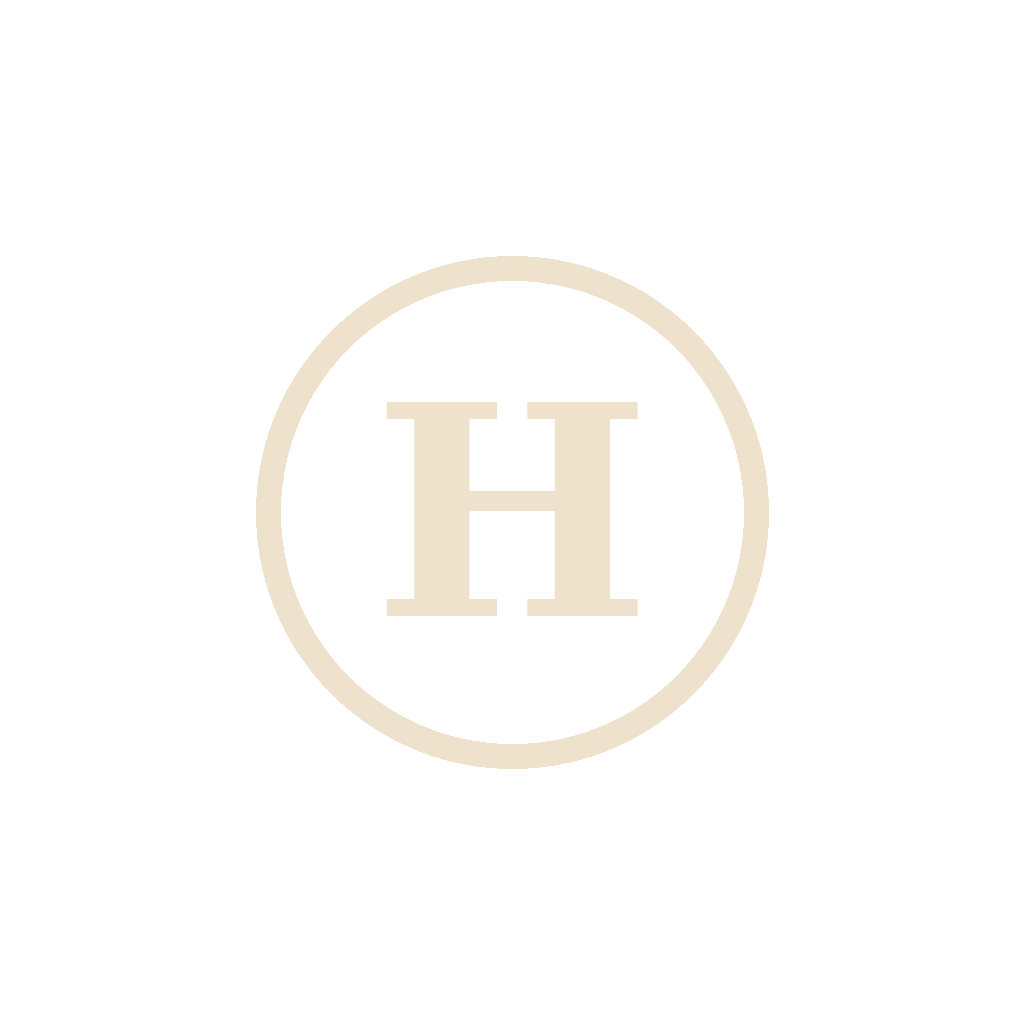
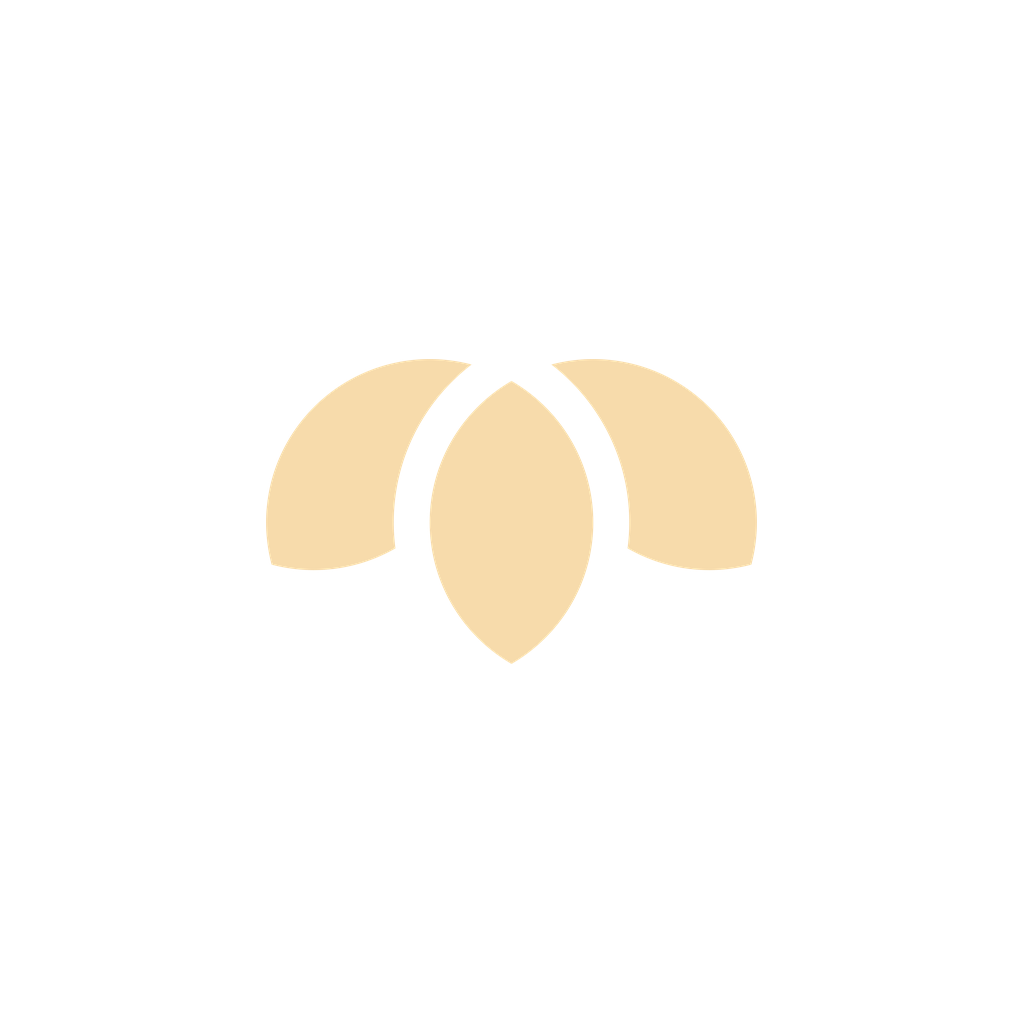
Hamour kurumsal renkleri ve logosu
- Renkler hamour_pantoneler.pdf'ten: %60 krem #F6DCAF zemin, %30 kiremit #B45A3C
  (kartlar, düğmeler), %10 koyu kahve #3D1D0E (yazı). Uygulama ve panel.
- Logo ve üç yaprak simgesi Hamour_Logo.ai'den vektör olarak; ana sayfa, giriş,
  "Hamour'u tanıyın" ve panel üst çubuğunda.
- Doku: kiremit kartlarda silik simge filigranı.
- Başlıklarda Playfair Display.
- Uygulama simgesi, Android simgeleri, açılış ekranı ve favicon yeni logodan.

Claude-Session: https://claude.ai/code/session_01F9uvWqfTVvxXdeyaDPkVFK

Changed region(s): [[0.25, 0.25, 0.75, 0.75]]

diff --git a/app/src/bilesenler/Logo.tsx b/app/src/bilesenler/Logo.tsx
@@ -1,12 +1,37 @@
-import Svg, { Circle, Text as SvgText } from 'react-native-svg';
+import Svg, { Path } from 'react-native-svg';
 import { renk } from '../tema';
 
-// Geçici "H" monogramı. Hamour'un logosu (vektör) gelince buraya konacak.
-export function Logo({ boy = 40, renkKodu = renk.ana }: { boy?: number; renkKodu?: string }) {
+// Hamour logosu: Hamour_Logo.ai'den vektör olarak alındı (Kasım 2026). Yolları elle değiştirmeyin.
+const YAZI = [
+  'M 264.95 610.79 L 264.95 468.89 C 264.95 463.89 268.13 460.71 273.12 460.71 L 274.26 460.71 L 274.26 458.44 L 232.25 458.44 L 232.25 460.71 L 233.39 460.71 C 238.38 460.71 241.56 463.89 241.56 468.89 L 241.56 502.57 L 191.33 502.57 L 191.33 468.89 C 191.33 463.89 194.73 460.71 199.50 460.71 L 200.64 460.71 L 200.64 458.44 L 158.86 458.44 L 158.86 460.71 L 160 460.71 C 164.99 460.71 168.17 463.89 168.17 468.89 L 168.17 610.79 C 168.17 615.56 164.99 618.96 160 618.96 L 158.86 618.96 L 158.86 621.23 L 200.64 621.23 L 200.64 618.96 L 199.50 618.96 C 194.73 618.96 191.33 615.56 191.33 610.79 L 191.33 507.23 L 241.56 507.23 L 241.56 610.79 C 241.56 615.56 238.38 618.96 233.39 618.96 L 232.25 618.96 L 232.25 621.23 L 277.43 621.23 L 277.43 618.96 L 273.12 618.96 C 268.13 618.96 264.95 615.56 264.95 610.79',
+  'M 553.11 608.83 L 553.11 542.76 C 553.11 515.52 543.35 500.53 523.37 500.53 C 505.43 500.53 490.90 512.79 484.32 532.77 C 482.05 511.89 472.28 500.53 455.03 500.53 C 437.55 500.53 423.24 512.34 416.20 531.41 L 416.20 503.03 L 383.74 503.03 L 383.74 505.30 L 384.87 505.30 C 389.87 505.30 393.05 508.48 393.05 513.48 L 393.05 608.83 C 393.05 613.60 389.87 617.01 384.87 617.01 L 383.74 617.01 L 383.74 619.28 L 425.51 619.28 L 425.51 617.01 L 424.38 617.01 C 419.61 617.01 416.20 613.60 416.20 608.83 L 416.20 560.25 C 416.20 531.41 427.55 512.11 442.76 512.11 C 455.25 512.11 461.39 524.37 461.39 545.03 L 461.39 608.83 C 461.39 613.60 458.21 617.01 453.21 617.01 L 452.08 617.01 L 452.08 619.28 L 494.08 619.28 L 494.08 617.01 L 492.94 617.01 C 487.95 617.01 484.77 613.60 484.77 608.83 L 484.77 560.25 C 484.77 531.41 495.89 512.11 511.33 512.11 C 523.59 512.11 529.95 524.37 529.95 545.03 L 529.95 608.83 C 529.95 613.60 526.55 617.01 521.78 617.01 L 520.64 617.01 L 520.64 619.28 L 570.48 619.28 L 570.48 617.01 L 561.28 617.01 C 556.29 617.01 553.11 613.60 553.11 608.83',
+  'M 616.67 616.05 C 593.50 616.05 577.90 594.41 577.90 561.44 C 577.90 528.81 593.50 506.83 616.67 506.83 C 640 506.83 655.44 528.81 655.44 561.44 C 655.44 594.41 640 616.05 616.67 616.05 M 616.54 503.04 C 580.44 503.04 556.14 526.38 556.14 561.28 C 556.14 596.17 580.44 619.30 616.54 619.30 C 652.87 619.30 677.16 596.17 677.16 561.28 C 677.16 526.38 652.87 503.04 616.54 503.04',
+  'M 351.07 582.22 C 350.63 601.85 339.70 614.79 325.19 614.79 C 310.47 614.79 298.42 600.96 298.42 582.89 C 298.42 564.82 310.47 553 325.87 553 C 340.14 553 350.63 563.03 351.07 578.65 Z M 374.05 608.99 L 374.05 552.55 C 374.05 515.07 350.18 502.57 328.54 502.57 C 318.05 502.57 309.13 505.69 304.22 507.70 C 293.07 512.39 293.07 507.92 293.07 505.69 L 293.07 505.03 L 290.83 505.03 L 290.83 541.62 L 293.07 541.62 C 300.21 515.07 309.13 507.26 323.41 507.26 C 343.04 507.26 351.07 522.21 351.07 548.31 L 351.07 562.36 C 345.27 552.77 333.67 546.08 318.73 546.08 C 294.85 546.08 275.67 562.81 275.67 584.90 C 275.67 606.76 293.96 621.49 316.27 621.49 C 332.56 621.49 344.83 613.90 351.07 601.85 L 351.07 609.89 C 351.07 615.69 354.87 619.26 360.44 619.26 L 383.20 619.26 L 383.20 617.03 L 381.86 617.03 C 377.18 617.03 374.05 613.68 374.05 608.99',
+  'M 880.28 504.92 C 878.19 506.14 876.28 507.61 874.60 509.31 C 869.71 514.21 866.68 520.98 866.66 528.44 L 866.66 528.51 C 866.66 538.60 872.14 547.40 880.28 552.11 C 888.42 547.40 893.90 538.60 893.90 528.51 C 893.90 518.44 888.42 509.64 880.28 504.92',
+  'M 846.33 502.28 C 833.84 506.07 824.50 516.04 819.41 530.28 L 819.41 503.03 L 786.94 503.03 L 786.94 505.30 L 788.08 505.30 C 792.59 505.30 796.25 508.96 796.25 513.48 L 796.25 608.83 C 796.25 613.60 793.07 617.01 788.08 617.01 L 787 617.01 C 782.17 617.00 778.26 613.09 778.26 608.26 L 778.26 503.60 C 778.26 503.28 778.00 503.03 777.69 503.03 L 746.36 503.03 C 746.05 503.03 745.79 503.28 745.79 503.60 L 745.79 505.30 L 746.92 505.30 C 751.69 505.30 755.10 508.48 755.10 513.48 L 755.10 562.06 C 755.10 590.44 738.53 610.19 723.32 610.19 C 713.55 610.19 705.15 601.80 705.15 581.82 L 705.15 503.60 C 705.15 503.28 704.90 503.03 704.58 503.03 L 673.58 503.03 L 673.58 505.32 C 678.25 505.49 681.99 509.32 681.99 514.04 L 681.99 581.82 C 681.99 609.51 693.57 621.55 710.60 621.55 C 727.58 621.55 745.20 609.64 754.02 589.83 C 754.27 589.28 755.10 589.46 755.10 590.07 L 755.10 618.71 C 755.10 619.02 755.35 619.28 755.67 619.28 L 828.71 619.28 L 828.71 617.01 L 827.58 617.01 C 823.07 617.01 819.41 613.35 819.41 608.83 L 819.41 560.25 C 819.41 538.63 823.63 525.98 834.27 521.17 C 836.00 513.55 840.35 506.92 846.33 502.28',
+  'M 893.90 501.28 C 891.49 501.28 889.15 501.60 886.92 502.19 C 894.80 508.26 899.88 517.80 899.88 528.52 C 899.88 529.98 899.79 531.42 899.60 532.84 C 905.90 536.48 913.34 537.38 920.21 535.56 C 920.82 533.31 921.13 530.95 921.13 528.52 C 921.13 513.48 908.94 501.28 893.90 501.28',
+  'M 873.64 502.19 C 871.41 501.60 869.07 501.28 866.66 501.28 C 851.62 501.28 839.43 513.48 839.43 528.52 C 839.43 530.95 839.75 533.31 840.35 535.56 C 847.22 537.38 854.66 536.48 860.96 532.84 C 860.77 531.42 860.68 529.98 860.68 528.52 C 860.68 517.80 865.76 508.26 873.64 502.19',
+];
+const SIMGE = [
+  'M 540.01 323.83 C 519.27 335.83 500.30 350.48 483.53 367.34 C 434.98 416.07 404.98 483.22 404.77 557.37 L 404.77 558.08 C 404.77 658.16 459.16 745.56 540.01 792.32 C 620.83 745.56 675.22 658.16 675.22 558.08 C 675.22 458.00 620.83 370.60 540.01 323.83',
+  'M 675.22 287.67 C 651.27 287.67 628.04 290.77 605.93 296.63 C 684.21 356.95 734.64 451.63 734.64 558.08 C 734.64 572.62 733.70 586.97 731.87 601.00 C 794.40 637.10 868.30 646.08 936.48 627.98 C 942.47 605.69 945.63 582.25 945.63 558.08 C 945.63 408.74 824.56 287.67 675.22 287.67',
+  'M 474.06 296.63 C 451.95 290.77 428.72 287.67 404.78 287.67 C 255.43 287.67 134.36 408.74 134.36 558.08 C 134.36 582.25 137.52 605.69 143.51 627.98 C 211.69 646.08 285.59 637.10 348.12 601.00 C 346.29 586.97 345.35 572.62 345.35 558.08 C 345.35 451.63 395.78 356.95 474.06 296.63',
+];
+
+/** "Hamour" yazı logosu; boy = genişlik */
+export function Logo({ boy = 140, renkKodu = renk.kahve }: { boy?: number; renkKodu?: string }) {
   return (
-    <Svg width={boy} height={boy} viewBox="0 0 48 48" accessibilityLabel="Hamour logosu">
-      <Circle cx={24} cy={24} r={22.5} fill="none" stroke={renkKodu} strokeWidth={2} />
-      <SvgText x={24} y={32.5} fontSize={25} fontWeight="700" fill={renkKodu} textAnchor="middle" fontFamily="Georgia, serif">H</SvgText>
+    <Svg width={boy} height={boy / 4.5855} viewBox="156.6 456.4 766.7 167.2" accessibilityLabel="Hamour">
+      {YAZI.map((d, i) => <Path key={i} d={d} fill={renkKodu} />)}
+    </Svg>
+  );
+}
+
+/** Üç yapraklı simge; boy = genişlik */
+export function Simge({ boy = 40, renkKodu = renk.kahve, opaklik = 1 }: { boy?: number; renkKodu?: string; opaklik?: number }) {
+  return (
+    <Svg width={boy} height={boy / 1.6026} viewBox="132.2 285.5 815.7 509.0" opacity={opaklik} accessibilityElementsHidden importantForAccessibility="no-hide-descendants">
+      {SIMGE.map((d, i) => <Path key={i} d={d} fill={renkKodu} />)}
     </Svg>
   );
 }

diff --git a/panel/src/main.tsx b/panel/src/main.tsx
@@ -8,12 +8,22 @@ import { sb } from './supabase';
 import './stil.css';
 import { Yonetim } from './yonetim/Yonetim';
 
-function Logo({ boy = 28 }: { boy?: number }) {
-  // Geçici "H" monogramı; Hamour logosu gelince değişecek
+const LOGO_YOLLARI = [
+  'M 264.95 610.79 L 264.95 468.89 C 264.95 463.89 268.13 460.71 273.12 460.71 L 274.26 460.71 L 274.26 458.44 L 232.25 458.44 L 232.25 460.71 L 233.39 460.71 C 238.38 460.71 241.56 463.89 241.56 468.89 L 241.56 502.57 L 191.33 502.57 L 191.33 468.89 C 191.33 463.89 194.73 460.71 199.50 460.71 L 200.64 460.71 L 200.64 458.44 L 158.86 458.44 L 158.86 460.71 L 160 460.71 C 164.99 460.71 168.17 463.89 168.17 468.89 L 168.17 610.79 C 168.17 615.56 164.99 618.96 160 618.96 L 158.86 618.96 L 158.86 621.23 L 200.64 621.23 L 200.64 618.96 L 199.50 618.96 C 194.73 618.96 191.33 615.56 191.33 610.79 L 191.33 507.23 L 241.56 507.23 L 241.56 610.79 C 241.56 615.56 238.38 618.96 233.39 618.96 L 232.25 618.96 L 232.25 621.23 L 277.43 621.23 L 277.43 618.96 L 273.12 618.96 C 268.13 618.96 264.95 615.56 264.95 610.79',
+  'M 553.11 608.83 L 553.11 542.76 C 553.11 515.52 543.35 500.53 523.37 500.53 C 505.43 500.53 490.90 512.79 484.32 532.77 C 482.05 511.89 472.28 500.53 455.03 500.53 C 437.55 500.53 423.24 512.34 416.20 531.41 L 416.20 503.03 L 383.74 503.03 L 383.74 505.30 L 384.87 505.30 C 389.87 505.30 393.05 508.48 393.05 513.48 L 393.05 608.83 C 393.05 613.60 389.87 617.01 384.87 617.01 L 383.74 617.01 L 383.74 619.28 L 425.51 619.28 L 425.51 617.01 L 424.38 617.01 C 419.61 617.01 416.20 613.60 416.20 608.83 L 416.20 560.25 C 416.20 531.41 427.55 512.11 442.76 512.11 C 455.25 512.11 461.39 524.37 461.39 545.03 L 461.39 608.83 C 461.39 613.60 458.21 617.01 453.21 617.01 L 452.08 617.01 L 452.08 619.28 L 494.08 619.28 L 494.08 617.01 L 492.94 617.01 C 487.95 617.01 484.77 613.60 484.77 608.83 L 484.77 560.25 C 484.77 531.41 495.89 512.11 511.33 512.11 C 523.59 512.11 529.95 524.37 529.95 545.03 L 529.95 608.83 C 529.95 613.60 526.55 617.01 521.78 617.01 L 520.64 617.01 L 520.64 619.28 L 570.48 619.28 L 570.48 617.01 L 561.28 617.01 C 556.29 617.01 553.11 613.60 553.11 608.83',
+  'M 616.67 616.05 C 593.50 616.05 577.90 594.41 577.90 561.44 C 577.90 528.81 593.50 506.83 616.67 506.83 C 640 506.83 655.44 528.81 655.44 561.44 C 655.44 594.41 640 616.05 616.67 616.05 M 616.54 503.04 C 580.44 503.04 556.14 526.38 556.14 561.28 C 556.14 596.17 580.44 619.30 616.54 619.30 C 652.87 619.30 677.16 596.17 677.16 561.28 C 677.16 526.38 652.87 503.04 616.54 503.04',
+  'M 351.07 582.22 C 350.63 601.85 339.70 614.79 325.19 614.79 C 310.47 614.79 298.42 600.96 298.42 582.89 C 298.42 564.82 310.47 553 325.87 553 C 340.14 553 350.63 563.03 351.07 578.65 Z M 374.05 608.99 L 374.05 552.55 C 374.05 515.07 350.18 502.57 328.54 502.57 C 318.05 502.57 309.13 505.69 304.22 507.70 C 293.07 512.39 293.07 507.92 293.07 505.69 L 293.07 505.03 L 290.83 505.03 L 290.83 541.62 L 293.07 541.62 C 300.21 515.07 309.13 507.26 323.41 507.26 C 343.04 507.26 351.07 522.21 351.07 548.31 L 351.07 562.36 C 345.27 552.77 333.67 546.08 318.73 546.08 C 294.85 546.08 275.67 562.81 275.67 584.90 C 275.67 606.76 293.96 621.49 316.27 621.49 C 332.56 621.49 344.83 613.90 351.07 601.85 L 351.07 609.89 C 351.07 615.69 354.87 619.26 360.44 619.26 L 383.20 619.26 L 383.20 617.03 L 381.86 617.03 C 377.18 617.03 374.05 613.68 374.05 608.99',
+  'M 880.28 504.92 C 878.19 506.14 876.28 507.61 874.60 509.31 C 869.71 514.21 866.68 520.98 866.66 528.44 L 866.66 528.51 C 866.66 538.60 872.14 547.40 880.28 552.11 C 888.42 547.40 893.90 538.60 893.90 528.51 C 893.90 518.44 888.42 509.64 880.28 504.92',
+  'M 846.33 502.28 C 833.84 506.07 824.50 516.04 819.41 530.28 L 819.41 503.03 L 786.94 503.03 L 786.94 505.30 L 788.08 505.30 C 792.59 505.30 796.25 508.96 796.25 513.48 L 796.25 608.83 C 796.25 613.60 793.07 617.01 788.08 617.01 L 787 617.01 C 782.17 617.00 778.26 613.09 778.26 608.26 L 778.26 503.60 C 778.26 503.28 778.00 503.03 777.69 503.03 L 746.36 503.03 C 746.05 503.03 745.79 503.28 745.79 503.60 L 745.79 505.30 L 746.92 505.30 C 751.69 505.30 755.10 508.48 755.10 513.48 L 755.10 562.06 C 755.10 590.44 738.53 610.19 723.32 610.19 C 713.55 610.19 705.15 601.80 705.15 581.82 L 705.15 503.60 C 705.15 503.28 704.90 503.03 704.58 503.03 L 673.58 503.03 L 673.58 505.32 C 678.25 505.49 681.99 509.32 681.99 514.04 L 681.99 581.82 C 681.99 609.51 693.57 621.55 710.60 621.55 C 727.58 621.55 745.20 609.64 754.02 589.83 C 754.27 589.28 755.10 589.46 755.10 590.07 L 755.10 618.71 C 755.10 619.02 755.35 619.28 755.67 619.28 L 828.71 619.28 L 828.71 617.01 L 827.58 617.01 C 823.07 617.01 819.41 613.35 819.41 608.83 L 819.41 560.25 C 819.41 538.63 823.63 525.98 834.27 521.17 C 836.00 513.55 840.35 506.92 846.33 502.28',
+  'M 893.90 501.28 C 891.49 501.28 889.15 501.60 886.92 502.19 C 894.80 508.26 899.88 517.80 899.88 528.52 C 899.88 529.98 899.79 531.42 899.60 532.84 C 905.90 536.48 913.34 537.38 920.21 535.56 C 920.82 533.31 921.13 530.95 921.13 528.52 C 921.13 513.48 908.94 501.28 893.90 501.28',
+  'M 873.64 502.19 C 871.41 501.60 869.07 501.28 866.66 501.28 C 851.62 501.28 839.43 513.48 839.43 528.52 C 839.43 530.95 839.75 533.31 840.35 535.56 C 847.22 537.38 854.66 536.48 860.96 532.84 C 860.77 531.42 860.68 529.98 860.68 528.52 C 860.68 517.80 865.76 508.26 873.64 502.19',
+];
+
+function Logo({ boy = 96 }: { boy?: number }) {
+  // Hamour yazı logosu (Hamour_Logo.ai)
   return (
-    <svg width={boy} height={boy} viewBox="0 0 48 48" role="img" aria-label="Hamour">
-      <circle cx="24" cy="24" r="22.5" fill="none" stroke="#EFE2CC" strokeWidth="2" />
-      <text x="24" y="32.5" fontSize="25" fontWeight="700" fill="#EFE2CC" textAnchor="middle" fontFamily="Georgia, serif">H</text>
+    <svg width={boy} height={boy / 4.5855} viewBox="156.6 456.4 766.7 167.2" role="img" aria-label="Hamour">
+      {LOGO_YOLLARI.map((d, i) => <path key={i} d={d} fill="#F6DCAF" />)}
     </svg>
   );
 }
@@ -45,7 +55,7 @@ function Uygulama() {
   return (
     <>
       <header className="ust">
-        <div className="marka"><Logo /> Hamour</div>
+        <div className="marka"><Logo /></div>
         <nav aria-label="Bölümler">
           <NavLink to="/kasa" className={({ isActive }) => (isActive ? 'etkin' : '')}>Damga ver</NavLink>
           {yonetici ? <NavLink to="/yonetim" className={({ isActive }) => (isActive ? 'etkin' : '')}>Yönetim</NavLink> : null}

diff --git a/app/src/bilesenler/ortak.tsx b/app/src/bilesenler/ortak.tsx
@@ -3,16 +3,17 @@ import type { ComponentProps, ReactNode } from 'react';
 import { ActivityIndicator, Pressable, ScrollView, StyleSheet, Text, View, type StyleProp, type TextStyle, type ViewStyle } from 'react-native';
 import { useSafeAreaInsets } from 'react-native-safe-area-context';
 import { renk, yazi } from '../tema';
+import { Simge } from './Logo';
 
 type Tur = 'govde' | 'kucuk' | 'ust' | 'baslik' | 'buyukBaslik' | 'kalin' | 'italik' | 'fiyat';
 
 const turler: Record<Tur, TextStyle> = {
   govde: { fontFamily: yazi.normal, fontSize: 15, lineHeight: 22, color: renk.soluk },
   kucuk: { fontFamily: yazi.normal, fontSize: 13, lineHeight: 18, color: renk.soluk },
-  ust: { fontFamily: yazi.orta, fontSize: 12, letterSpacing: 2, textTransform: 'uppercase', color: renk.ana },
-  baslik: { fontFamily: yazi.kalin, fontSize: 20, color: renk.ana },
-  buyukBaslik: { fontFamily: yazi.kalin, fontSize: 28, color: renk.ana },
-  kalin: { fontFamily: yazi.kalin, fontSize: 16, color: renk.ana },
+  ust: { fontFamily: yazi.orta, fontSize: 12, letterSpacing: 2, textTransform: 'uppercase', color: renk.anaKoyu },
+  baslik: { fontFamily: yazi.baslik, fontSize: 21, color: renk.kahve },
+  buyukBaslik: { fontFamily: yazi.baslik, fontSize: 30, lineHeight: 36, color: renk.kahve },
+  kalin: { fontFamily: yazi.kalin, fontSize: 16, color: renk.kahve },
   italik: { fontFamily: yazi.italik, fontSize: 13, color: renk.soluk },
   fiyat: { fontFamily: yazi.fiyat, fontSize: 15, color: renk.fiyat },
 };
@@ -90,7 +91,15 @@ export function Satir({ children, onPress, son = false }: { children: ReactNode;
 }
 
 export function Kutu({ children, style, tur = 'kart' }: { children: ReactNode; style?: StyleProp<ViewStyle>; tur?: 'kart' | 'krem' | 'ana' | 'cizgi' }) {
-  return <View style={[s.kutu, s[tur], style]}>{children}</View>;
+  return (
+    <View style={[s.kutu, s[tur], style]}>
+      {tur === 'ana' ? (
+        // Doku: marka simgesi kiremit kartların köşesinde silik filigran
+        <View pointerEvents="none" style={s.filigran}><Simge boy={170} renkKodu={renk.krem} opaklik={0.09} /></View>
+      ) : null}
+      {children}
+    </View>
+  );
 }
 
 export const s = StyleSheet.create({
@@ -101,9 +110,10 @@ export const s = StyleSheet.create({
   anahtarTop: { width: 26, height: 26, borderRadius: 13, backgroundColor: '#FFFFFF' },
   satir: { flexDirection: 'row', alignItems: 'center', gap: 12, paddingVertical: 12 },
   satirCizgi: { borderBottomWidth: 1, borderBottomColor: renk.cizgi },
-  kutu: { borderRadius: 18, padding: 18, gap: 8 },
+  kutu: { borderRadius: 18, padding: 18, gap: 8, overflow: 'hidden' },
+  filigran: { position: 'absolute', right: -40, bottom: -30 },
   kart: { backgroundColor: renk.kart, borderWidth: 1, borderColor: renk.cizgi },
-  krem: { backgroundColor: renk.krem },
+  krem: { backgroundColor: renk.kremKutu },
   ana: { backgroundColor: renk.ana },
   cizgi: { backgroundColor: renk.kart, borderWidth: 2, borderColor: renk.ana },
   kenar: { paddingHorizontal: 20 },

diff --git a/app/src/app/marka.tsx b/app/src/app/marka.tsx
@@ -1,28 +1,28 @@
 import { router } from 'expo-router';
 import { Pressable, ScrollView, View } from 'react-native';
 import { useSafeAreaInsets } from 'react-native-safe-area-context';
-import { Logo } from '../bilesenler/Logo';
+import { Logo, Simge } from '../bilesenler/Logo';
 import { Dugme, Ikon, Kutu, s, Yazi } from '../bilesenler/ortak';
-import { renk } from '../tema';
+import { renk, yazi } from '../tema';
 
 // Metinler hamour.com.tr "Hikayemiz" sayfasından özetlendi (Kasım 2026); Hamour onaylayınca kesinleşir
 export default function Marka() {
   const ic = useSafeAreaInsets();
   return (
     <ScrollView style={{ flex: 1, backgroundColor: renk.kagit }} contentContainerStyle={{ paddingBottom: ic.bottom + 32 }}>
-      <View style={{ backgroundColor: renk.ana, paddingTop: ic.top + 16, paddingHorizontal: 24, paddingBottom: 32, gap: 18 }}>
+      <View style={{ backgroundColor: renk.ana, paddingTop: ic.top + 16, paddingHorizontal: 24, paddingBottom: 32, gap: 18, overflow: 'hidden' }}>
+        <View pointerEvents="none" style={{ position: 'absolute', right: -70, bottom: -60 }}>
+          <Simge boy={300} renkKodu={renk.krem} opaklik={0.08} />
+        </View>
         <Pressable accessibilityRole="button" accessibilityLabel="Geri" onPress={() => (router.canGoBack() ? router.back() : router.replace('/'))}
           style={{ width: 44, height: 44, borderRadius: 22, backgroundColor: renk.anaKoyu, alignItems: 'center', justifyContent: 'center' }}>
           <Ikon ad="arrow-left" renkKodu={renk.krem} />
         </Pressable>
-        <View style={{ flexDirection: 'row', alignItems: 'center', gap: 18 }}>
-          <Logo boy={70} renkKodu={renk.krem} />
-          <View>
-            <Yazi tur="buyukBaslik" style={{ color: renk.krem, fontSize: 46, lineHeight: 48 }}>Hamour</Yazi>
-            <Yazi style={{ color: renk.krem, letterSpacing: 4, fontSize: 13 }}>pâtisserie · brasserie · bistro</Yazi>
-          </View>
+        <View style={{ gap: 6 }}>
+          <Logo boy={230} renkKodu={renk.krem} />
+          <Yazi style={{ color: renk.krem, letterSpacing: 4, fontSize: 13 }}>pâtisserie · brasserie · bistro</Yazi>
         </View>
-        <Yazi tur="baslik" style={{ color: renk.krem, fontSize: 24, lineHeight: 30 }}>Paris’in büyülü bir caddesindeymiş gibi.</Yazi>
+        <Yazi tur="baslik" style={{ color: renk.krem, fontFamily: yazi.baslikItalik, fontSize: 24, lineHeight: 32 }}>Paris’in büyülü bir caddesindeymiş gibi.</Yazi>
       </View>
       <View style={[s.kenar, { gap: 18, paddingTop: 24 }]}>
         <Yazi style={{ fontSize: 16, lineHeight: 25 }}>

diff --git a/app/src/tema.ts b/app/src/tema.ts
@@ -1,31 +1,38 @@
-// Hamour geçici marka renkleri (Paris bistrosu: bordo, krem, kağıt).
-// Hamour'un resmî renkleri ve logosu gelince yalnız bu dosya ve panel/src/stil.css değişir.
+// Hamour marka renkleri (hamour_pantoneler.pdf, Kasım 2026). Oran: %60 krem, %30 kiremit, %10 koyu kahve.
+//   krem    #F6DCAF  C2 M13 Y36 K0   → zemin
+//   kiremit #B45A3C  C20 M75 Y86 K8  → dolu kartlar, düğmeler, vurgular (renk.ana)
+//   kahve   #3D1D0E  C48 M76 Y82 K70 → yazı, logo
+// Diğer tonlar bu üç rengin açık/koyu karışımlarıdır; yeni renk uydurmayın.
 export const renk = {
-  ana: '#5E1A2B',
-  anaKoyu: '#4A1422',
-  krem: '#EFE2CC',
-  kremAcik: '#E3D1B4',
-  kagit: '#FBF7F1',
-  kart: '#FFFDF9',
-  cizgi: '#E8DDCC',
-  murekkep: '#2A1A1E',
-  soluk: '#5C4B4F',
-  sekmeSoluk: '#6C5B5F',
-  fiyat: '#141414',
-  anaUstuSoluk: '#DCC3C8',
-  turuncu: '#9A6A1F',
-  rozetZemin: '#F4E6CF',
-  rozetYazi: '#7A4E0E',
-  kapali: '#CDBFB0',
-  tehlike: '#8A2F22',
+  ana: '#B45A3C',
+  anaKoyu: '#963F24',
+  kahve: '#3D1D0E',
+  krem: '#F6DCAF',
+  kremAcik: '#EFCB90',
+  kagit: '#F6DCAF',
+  kart: '#FBEBD1',
+  kremKutu: '#F1D09A',
+  cizgi: '#E6C38C',
+  murekkep: '#3D1D0E',
+  soluk: '#6A4632',
+  sekmeSoluk: '#7A5641',
+  fiyat: '#3D1D0E',
+  anaUstuSoluk: '#F8E3C1',
+  turuncu: '#B45A3C',
+  rozetZemin: '#3D1D0E',
+  rozetYazi: '#F6DCAF',
+  kapali: '#D9B98A',
+  tehlike: '#8E2A1A',
 };
 
-// Jost (sade, okunaklı), fiyatlar Montserrat (₺ işareti için)
+// Başlıklar Playfair Display (logonun yüksek kontrastlı serifine yakın), gövde Jost, fiyatlar Montserrat (₺ için)
 export const yazi = {
   normal: 'Jost_400Regular',
   orta: 'Jost_500Medium',
   italik: 'Jost_500Medium_Italic',
   kalin: 'Jost_700Bold',
+  baslik: 'PlayfairDisplay_700Bold',
+  baslikItalik: 'PlayfairDisplay_500Medium_Italic',
   fiyat: 'Montserrat_700Bold',
 };
 

diff --git a/app/src/app/(sekmeler)/index.tsx b/app/src/app/(sekmeler)/index.tsx
@@ -2,7 +2,7 @@ import { useState } from 'react';
 import { router } from 'expo-router';
 import { Linking, Pressable, RefreshControl, ScrollView, View } from 'react-native';
 import { DamgaKarti } from '../../bilesenler/DamgaKarti';
-import { Logo } from '../../bilesenler/Logo';
+import { Logo, Simge } from '../../bilesenler/Logo';
 import { Dugme, Ekran, Ikon, Kutu, s, Yazi } from '../../bilesenler/ortak';
 import { UrunSatiri } from '../../bilesenler/UrunSatiri';
 import { renk } from '../../tema';
@@ -25,12 +25,12 @@ export default function AnaSayfa() {
 
   return (
     <Ekran yenile={<RefreshControl refreshing={yenileniyor} tintColor={renk.ana} onRefresh={async () => { setYenileniyor(true); await v.yenile(); setYenileniyor(false); }} />}>
-      <View style={[s.kenar, { flexDirection: 'row', alignItems: 'center', justifyContent: 'space-between' }]}>
+      <View style={[s.kenar, { gap: 14 }]}>
+        <Logo boy={128} />
         <View>
           <Yazi>{selam()},</Yazi>
           <Yazi tur="buyukBaslik">{v.uye?.ad?.split(' ')[0] ?? 'hoş geldiniz'}</Yazi>
         </View>
-        <Logo />
       </View>
 
       <View style={s.kenar}>
@@ -86,7 +86,7 @@ export default function AnaSayfa() {
 
       <Pressable accessibilityRole="button" onPress={() => router.push('/marka')} style={s.kenar}>
         <Kutu tur="ana" style={{ flexDirection: 'row', alignItems: 'center', gap: 16 }}>
-          <Logo boy={44} renkKodu={renk.krem} />
+          <Simge boy={52} renkKodu={renk.krem} />
           <View style={{ flex: 1, gap: 2 }}>
             <Yazi tur="kalin" style={{ color: renk.krem, fontSize: 17 }}>Hamour’u tanıyın</Yazi>
             <Yazi tur="kucuk" style={{ color: renk.anaUstuSoluk }}>Paris esintili patiseri, brasserie ve bistro</Yazi>

diff --git a/app/src/app/_layout.tsx b/app/src/app/_layout.tsx
@@ -1,5 +1,6 @@
 import { Jost_400Regular, Jost_500Medium, Jost_500Medium_Italic, Jost_700Bold, useFonts } from '@expo-google-fonts/jost';
 import { Montserrat_700Bold } from '@expo-google-fonts/montserrat';
+import { PlayfairDisplay_500Medium_Italic, PlayfairDisplay_700Bold } from '@expo-google-fonts/playfair-display';
 import { Stack } from 'expo-router';
 import { StatusBar } from 'expo-status-bar';
 import { ActivityIndicator, Platform, View } from 'react-native';
@@ -14,7 +15,7 @@ function BildirimYonlendirici() {
 }
 
 export default function KokDuzen() {
-  const [yuklendi] = useFonts({ Jost_400Regular, Jost_500Medium, Jost_500Medium_Italic, Jost_700Bold, Montserrat_700Bold });
+  const [yuklendi] = useFonts({ Jost_400Regular, Jost_500Medium, Jost_500Medium_Italic, Jost_700Bold, Montserrat_700Bold, PlayfairDisplay_700Bold, PlayfairDisplay_500Medium_Italic });
   if (!yuklendi) {
     return <View style={{ flex: 1, backgroundColor: renk.ana, alignItems: 'center', justifyContent: 'center' }}><ActivityIndicator color={renk.krem} /></View>;
   }
@@ -29,7 +30,7 @@ export default function KokDuzen() {
             headerShown: false,
             contentStyle: { backgroundColor: renk.kagit },
             headerTintColor: renk.ana,
-            headerTitleStyle: { fontFamily: yazi.kalin },
+            headerTitleStyle: { fontFamily: yazi.baslik },
           }}
         >
           <Stack.Screen name="(sekmeler)" />

diff --git a/panel/src/stil.css b/panel/src/stil.css
@@ -1,13 +1,14 @@
 :root {
-  --ana: #5E1A2B; --ana-koyu: #4A1422; --krem: #EFE2CC; --kagit: #FBF7F1; --kart: #FFFDF9;
-  --cizgi: #E8DDCC; --murekkep: #2A1A1E; --soluk: #5C4B4F; --uyari: #7A4E0E; --uyari-zemin: #F4E6CF;
-  --tehlike: #8A2F22; --tamam-zemin: #F1E4E6;
+  /* Hamour (hamour_pantoneler.pdf): krem #F6DCAF %60, kiremit #B45A3C %30, koyu kahve #3D1D0E %10 */
+  --ana: #B45A3C; --ana-koyu: #963F24; --krem: #F6DCAF; --kagit: #F6DCAF; --kart: #FBEBD1;
+  --cizgi: #E6C38C; --murekkep: #3D1D0E; --soluk: #6A4632; --uyari: #3D1D0E; --uyari-zemin: #F1D09A;
+  --tehlike: #8E2A1A; --tamam-zemin: #F1D09A;
 }
 * { box-sizing: border-box; }
 html, body { margin: 0; background: var(--kagit); color: var(--murekkep); font-family: 'Jost', 'Trebuchet MS', sans-serif; font-size: 16px; }
 button, input, select, textarea { font: inherit; color: inherit; }
 a { color: var(--ana); }
-h1, h2, h3 { color: var(--ana); margin: 0; }
+h1, h2, h3 { color: var(--murekkep); margin: 0; font-family: 'Playfair Display', Georgia, serif; }
 h1 { font-size: 26px; } h2 { font-size: 19px; } h3 { font-size: 16px; }
 p { margin: 0; }
 

diff --git a/app/src/app/giris.tsx b/app/src/app/giris.tsx
@@ -19,7 +19,7 @@ function Alan({ etiket, ...p }: { etiket: string } & React.ComponentProps<typeof
   return (
     <View style={{ gap: 6 }}>
       <Yazi tur="kucuk" style={{ fontFamily: yazi.orta }}>{etiket}</Yazi>
-      <TextInput accessibilityLabel={etiket} placeholderTextColor="#8C9488" style={girdi} {...p} />
+      <TextInput accessibilityLabel={etiket} placeholderTextColor={renk.sekmeSoluk} style={girdi} {...p} />
     </View>
   );
 }
@@ -59,7 +59,7 @@ export default function Giris() {
     <KeyboardAvoidingView style={{ flex: 1, backgroundColor: renk.kagit }} behavior={Platform.OS === 'ios' ? 'padding' : undefined}>
       <ScrollView contentContainerStyle={{ padding: 24, paddingTop: ic.top + 24, paddingBottom: ic.bottom + 24, gap: 18 }} keyboardShouldPersistTaps="handled">
         <View style={{ flexDirection: 'row', justifyContent: 'space-between', alignItems: 'center' }}>
-          <Logo boy={44} />
+          <Logo boy={112} />
           <Dugme yazi="Kapat" tur="metin" onPress={kapat} />
         </View>
 

diff --git a/app/src/app/(sekmeler)/kart.tsx b/app/src/app/(sekmeler)/kart.tsx
@@ -109,7 +109,7 @@ export default function KahveKarti() {
           `${k.hedef} damga dolunca bir kahve bizden; istediğiniz boy ve çeşit.`,
         ].map((m, i) => (
           <View key={i} style={{ flexDirection: 'row', alignItems: 'center', gap: 14, paddingVertical: 10, borderBottomWidth: 1, borderBottomColor: renk.cizgi }}>
-            <View style={{ width: 34, height: 34, borderRadius: 17, backgroundColor: renk.krem, alignItems: 'center', justifyContent: 'center' }}>
+            <View style={{ width: 34, height: 34, borderRadius: 17, backgroundColor: renk.kremKutu, alignItems: 'center', justifyContent: 'center' }}>
               <Yazi tur="kalin">{i + 1}</Yazi>
             </View>
             <Yazi style={{ flex: 1, color: renk.murekkep }}>{m}</Yazi>

diff --git a/app/src/app/urun/[id].tsx b/app/src/app/urun/[id].tsx
@@ -27,7 +27,7 @@ export default function UrunSayfasi() {
 
   return (
     <ScrollView style={{ flex: 1, backgroundColor: renk.kagit }} contentContainerStyle={{ paddingBottom: ic.bottom + 32 }}>
-      <View style={{ height: 280 + ic.top, backgroundColor: renk.krem, alignItems: 'center', justifyContent: 'center' }}>
+      <View style={{ height: 280 + ic.top, backgroundColor: renk.kremKutu, alignItems: 'center', justifyContent: 'center' }}>
         <Ikon ad="image" boy={40} renkKodu={renk.soluk} />
         <Pressable accessibilityRole="button" accessibilityLabel="Geri" onPress={() => (router.canGoBack() ? router.back() : router.replace('/menu'))}
           style={[yuvarlak, { position: 'absolute', left: 16, top: ic.top + 12 }]}>

diff --git a/panel/index.html b/panel/index.html
@@ -3,11 +3,11 @@
 <head>
 <meta charset="utf-8">
 <meta name="viewport" content="width=device-width, initial-scale=1, viewport-fit=cover">
-<meta name="theme-color" content="#5E1A2B">
+<meta name="theme-color" content="#B45A3C">
 <meta name="robots" content="noindex">
 <title>Hamour · kasa ve yönetim</title>
 <link rel="preconnect" href="https://fonts.googleapis.com">
-<link rel="stylesheet" href="https://fonts.googleapis.com/css2?family=Jost:ital,wght@0,400..700;1,500&family=Montserrat:wght@700&display=swap">
+<link rel="stylesheet" href="https://fonts.googleapis.com/css2?family=Jost:ital,wght@0,400..700;1,500&family=Montserrat:wght@700&family=Playfair+Display:wght@700&display=swap">
 </head>
 <body>
 <div id="kok"></div>
